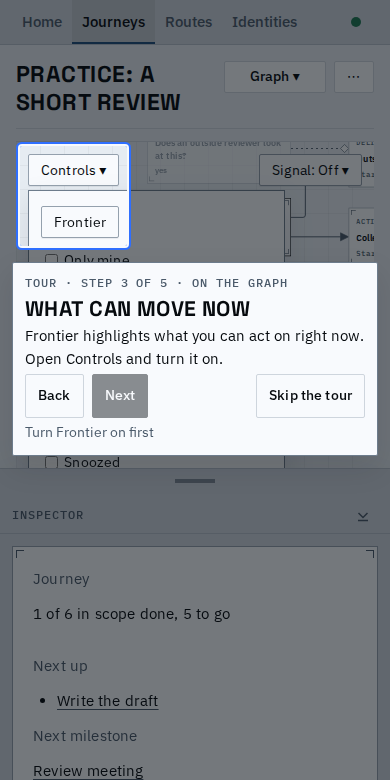
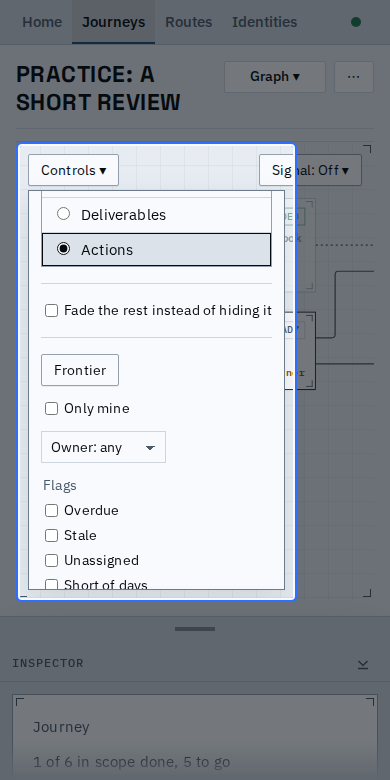
Step the tour callout aside while its menu is open
On a phone the Frontier step has the person open the Controls menu,
and the docked callout covered the lower part of it. While a menu the
step names is open the callout now steps aside (hidden, back when the
menu closes) and the hole takes in the whole open menu, ending where the
sheet begins; the step opens with the sheet at its peek so the menu has
the room. A browser test walks the menu open and closed; the phone proof
shot is retaken.

diff --git a/web/app/src/tour/Overlay.tsx b/web/app/src/tour/Overlay.tsx
@@ -79,12 +79,14 @@ interface Snap {
   floor: number;
   /** Why there is no anchor, once there is none. */
   absence: Absence | undefined;
+  /** The step's menu is open. */
+  aside: boolean;
 }
 
 const sameSize = (a: Size, b: Size): boolean => a.width === b.width && a.height === b.height;
 
 const sameSnap = (a: Snap | undefined, b: Snap): boolean =>
-  a !== undefined && sameRect(a.hole, b.hole) && sameRect(a.anchor, b.anchor) && a.named.length === b.named.length && a.named.every((each, at) => sameRect(each, b.named[at])) && a.scrolledOut === b.scrolledOut && sameSize(a.size, b.size) && sameSize(a.docked, b.docked) && sameSize(a.viewport, b.viewport) && a.floor === b.floor && a.absence === b.absence;
+  a !== undefined && sameRect(a.hole, b.hole) && sameRect(a.anchor, b.anchor) && a.named.length === b.named.length && a.named.every((each, at) => sameRect(each, b.named[at])) && a.scrolledOut === b.scrolledOut && sameSize(a.size, b.size) && sameSize(a.docked, b.docked) && sameSize(a.viewport, b.viewport) && a.floor === b.floor && a.absence === b.absence && a.aside === b.aside;
 
 /** What the overlay reads for a state: the selectors of the hole and the anchor, and what is asked of the canvas. */
 interface Targets {
@@ -173,6 +175,12 @@ function withHandle(rect: Rect, elements: readonly HTMLElement[]): Rect {
   return inSheet && globalThis.matchMedia(SHEET).matches && handle !== null && handle.checkVisibility() ? (union([rect, rectOf(handle)]) ?? rect) : rect;
 }
 
+/** A hole on the page ends where the sheet begins (a menu can reach under it); one in the sheet is the sheet's own. */
+function aboveSheet(rect: Rect, elements: readonly HTMLElement[], floor: number): Rect {
+  const inSheet = elements.some((each) => each.closest("aside.inspector") !== null);
+  return inSheet || rect.top >= floor ? rect : { ...rect, height: Math.min(rect.height, floor - rect.top) };
+}
+
 /** What the page shows of a state's targets now. */
 function readSnap(now: Targets, element: HTMLElement, absentFor: number): { snap: Snap; anchored: ReturnType<typeof match> } {
   const holes = match(now.hole);
@@ -182,13 +190,14 @@ function readSnap(now: Targets, element: HTMLElement, absentFor: number): { snap
   return {
     anchored,
     snap: {
-      hole: holes.rect === undefined ? undefined : grow(withHandle(holes.rect, holes.elements), HOLE_PAD),
+      hole: holes.rect === undefined ? undefined : aboveSheet(grow(withHandle(holes.rect, holes.elements), HOLE_PAD), holes.elements, floorOf(viewport)),
       anchor: anchored.rect === undefined ? undefined : grow(anchored.rect, now.phase === "spotlight" ? HOLE_PAD : 6),
       named: visibleRects(now.names),
       scrolledOut: holes.scrolledOut || anchored.scrolledOut,
       ...sizesOf(element, viewport),
       viewport: { width: viewport.width, height: viewport.height },
       floor: floorOf(viewport),
+      aside: now.step.aside !== undefined && visibleRects([now.step.aside]).length > 0,
       absence: anchored.rect === undefined ? diagnose({ loaded: true, closed: peeking && now.step.pane === true, absentFor }) : undefined,
     },
   };
@@ -394,12 +403,13 @@ function useRevealEffects(shown: Shown | undefined, steps: readonly Step[], shee
   }, [phase, id]);
 }
 
-/** A step that needs the inspector's pane raises the sheet when a state of it begins (a first arrival, a Back, a reload), so the action is in view without a tap. */
+/** A step that needs the inspector's pane raises the sheet when a state of it begins (a first arrival, a Back, a reload), so the action is in view without a tap; one whose menu needs the room lowers it. */
 function useArrivalSheet(targets: Targets | undefined, sheet: boolean, actions: FrameActions | undefined): void {
   const key = targets?.key;
   useEffect(() => {
-    if (targets?.phase === "spotlight" && targets.step.pane === true && sheet) {
-      actions?.snap("half");
+    const to = targets?.step.pane === true ? "half" : targets?.step.menuSheet;
+    if (targets?.phase === "spotlight" && to !== undefined && sheet) {
+      actions?.snap(to);
     }
     // Once per state, whatever else the render changes.
   }, [key]);
@@ -574,7 +584,7 @@ export function Overlay({ api, run }: { api: TourApi; run: string }) {
         absence={absence}
         scrolledOut={snap?.scrolledOut === true}
         at={at}
-        ready={current && at !== undefined}
+        ready={current && at !== undefined && snap?.aside !== true}
         revealed={revealed}
         gliding={gliding}
         blocking={!lifted}

diff --git a/web/app/src/tour/steps.ts b/web/app/src/tour/steps.ts
@@ -43,6 +43,9 @@ export interface WindowKind {
   short: boolean;
 }
 
+/** The phone's Controls menu, which holds the Frontier switch. */
+const CONTROLS_MENU = '[data-testid="controls-button-menu"]';
+
 export interface Step {
   id: StepId;
   /** The callout's title. */
@@ -67,6 +70,10 @@ export interface Step {
   reveal: Reveal;
   /** Disclosures the tour opens on arrival so what the step is about is in view (CSS selectors of `details`). */
   opens?: string[];
+  /** A menu the step has the person open: while it is open the callout steps aside, so nothing of the menu is under it. */
+  aside?: string;
+  /** The sheet height a state of the step opens at where the inspector is a sheet and the step's menu needs the room above it. */
+  menuSheet?: "peek";
   /** On reveal, an element to press if it is there (a menu the action left open). */
   revealClose?: string;
   /** On reveal, the height the sheet takes where the inspector is one: up to show the inspector's change, down to show the graph's. */
@@ -182,7 +189,9 @@ const STEPS: Record<StepId, Step> = {
     screen: "graph",
     frame: [draft, decision, review, comments],
     // On a phone the chip is in the Controls menu: the button, then the menu's item once it is open.
-    area: () => ['[data-tour="frontier"]', '[data-tour="controls"]'],
+    area: () => ['[data-tour="frontier"]', '[data-tour="controls"]', CONTROLS_MENU],
+    aside: CONTROLS_MENU,
+    menuSheet: "peek",
     side: "bottom",
     reveal: "lift",
     // The emphasis is the whole graph: the first of what can move now is the one to look at.

diff --git a/web/app/e2e/tour.spec.ts b/web/app/e2e/tour.spec.ts
@@ -415,6 +415,15 @@ test.describe("on a phone", () => {
     // The hole holds Controls and, once opened, the menu with Frontier in it.
     await expect(page.getByTestId("controls-button")).toBeVisible();
     await clear();
+    // While the menu is open the callout steps aside, and the hole holds the whole menu; it returns when the menu closes.
+    await page.getByTestId("controls-button").click();
+    const menu = page.getByTestId("controls-button-menu");
+    await expect(menu).toBeVisible();
+    await expect(callout(page)).toBeHidden();
+    await expect.poll(async () => holds(await settledBox(ring(page)), await settledBox(menu), 8)).toBe(true);
+    await page.keyboard.press("Escape");
+    await expect(menu).toHaveCount(0);
+    await expect(callout(page)).toBeVisible();
     await setFrontier(page, true);
     await expectAt(page, "frontier", "reveal");
     await next(page);

diff --git a/briefs/proof/2026-10-22-overlay-tour/README.md b/briefs/proof/2026-10-22-overlay-tour/README.md
@@ -22,7 +22,7 @@ Dark, and a window under 1100px, where the inspector is a sheet raised to the an
 | --- | --- | --- | --- |
 | <img src="dark-2-spotlight.png" width="230"> | <img src="dark-4-reveal.png" width="230"> | <img src="tablet-1-reveal.png" width="230"> | <img src="tablet-2-spotlight.png" width="230"> |
 
-A phone, 390px: the callout docks across the foot above the sheet and never over the hole. Steps 1 and 2, Controls opened for Frontier, its reveal, and step 4's reveal (docked at the head so the freed rows stay clear).
+A phone, 390px: the callout docks across the foot above the sheet and never over the hole. Steps 1 and 2, Controls opened for Frontier (the callout steps aside while the menu is open and the hole holds the whole menu), its reveal, and step 4's reveal (docked at the head so the freed rows stay clear).
 
 | 1 | 2 | 3 | 3 reveal | 4 reveal |
 | --- | --- | --- | --- | --- |
@@ -35,4 +35,3 @@ A phone, 390px: the callout docks across the foot above the sheet and never over
 Known limits:
 
 - On a phone the room above the callout holds one card at a readable size, so step 2 shows the decision and leaves the review card to the reveal.
-- On a phone an open menu is taller than the room above the callout, so the callout covers its lower part; the control the step is about stays in the hole above it.
